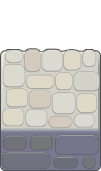
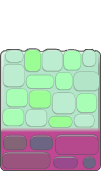
changing images colors

diff --git a/js/app.js b/js/app.js
@@ -64,11 +64,6 @@ Player.prototype.reset = function() {
 
 Player.prototype.update = function() {
     switch (this.move) {
-        case 'left':
-            if(this.x - this.moveX < 0)
-                return;
-            this.x -= this.moveX;
-            break;
         case 'up':
             if(this.y - this.moveY < -20)
                 return;
@@ -78,6 +73,11 @@ Player.prototype.update = function() {
             if(this.x + this.moveX > 404)
                 return;
             this.x += this.moveX;
+            break;
+        case 'left':
+            if(this.x - this.moveX < 0)
+                return;
+            this.x -= this.moveX;
             break;
         case 'down':
             if(this.y + this.moveY > 395)
@@ -90,7 +90,7 @@ Player.prototype.update = function() {
     
 
     if (this.y == -20) {
-        alert('You did it!');
+        alert('You did it! Press ENTER to restart.');
         this.reset();
     }
 

diff --git a/js/engine.js b/js/engine.js
@@ -173,7 +173,8 @@ var Engine = (function(global) {
         'images/water-block.png',
         'images/grass-block.png',
         'images/morty.png',
-        'images/rick.png'
+        'images/rick.png',
+        'images/Key.png'
     ]);
     Resources.onReady(init);
 
